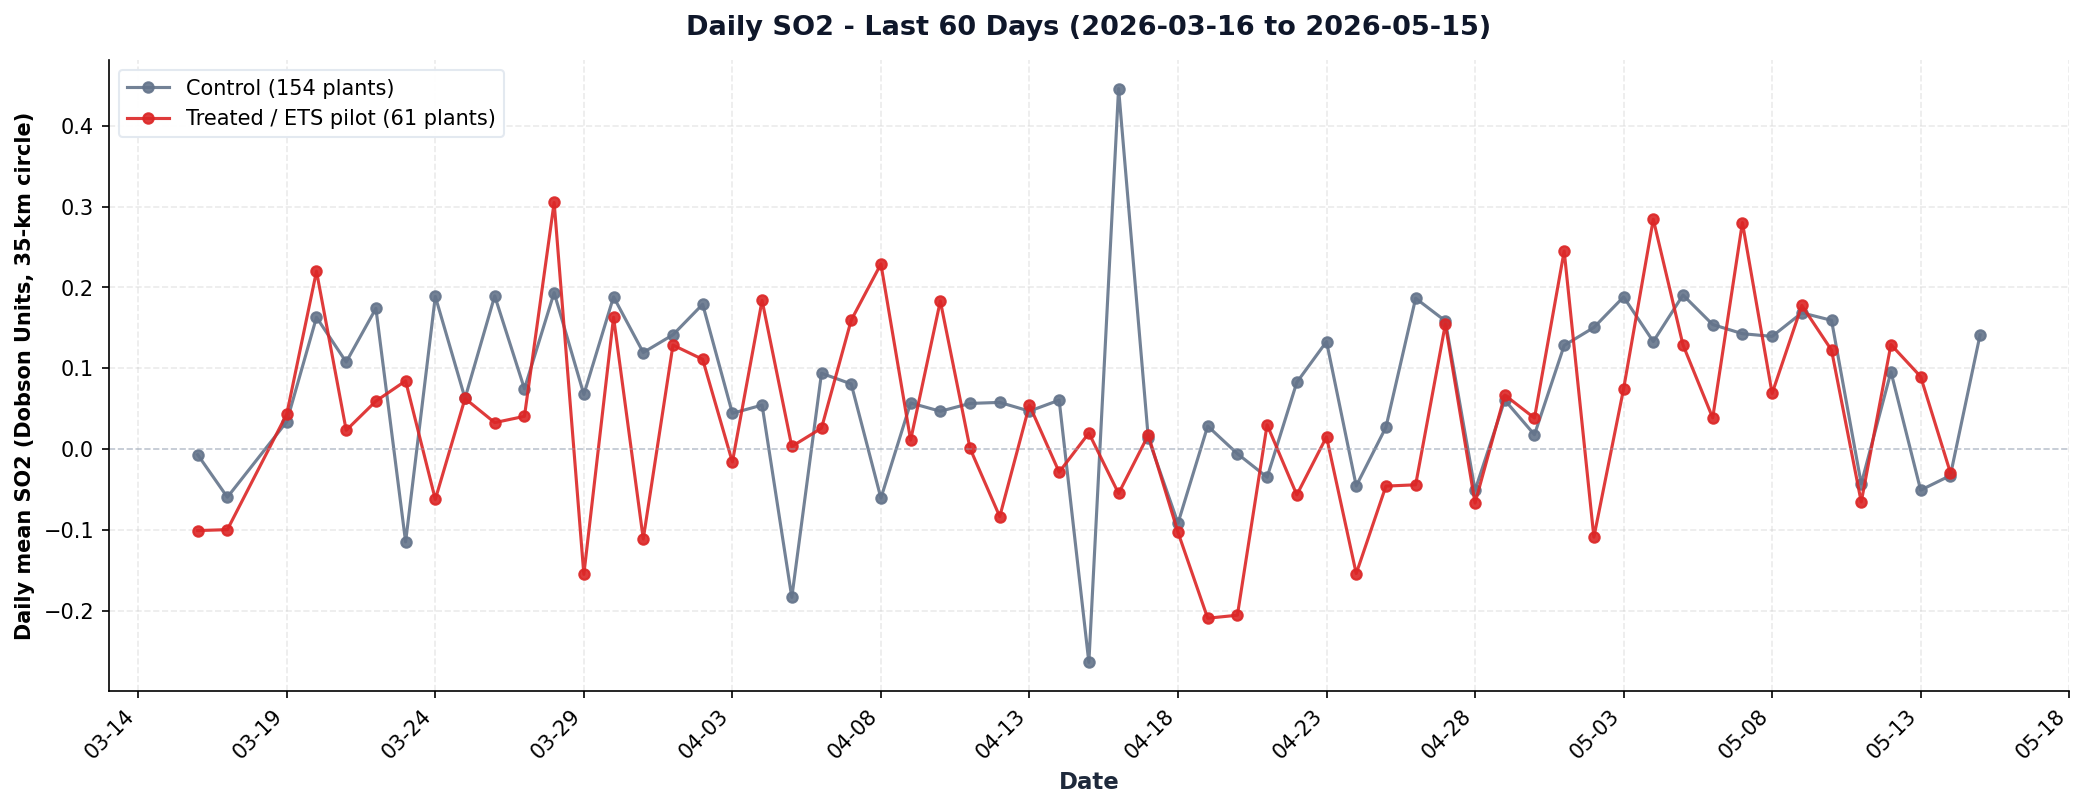
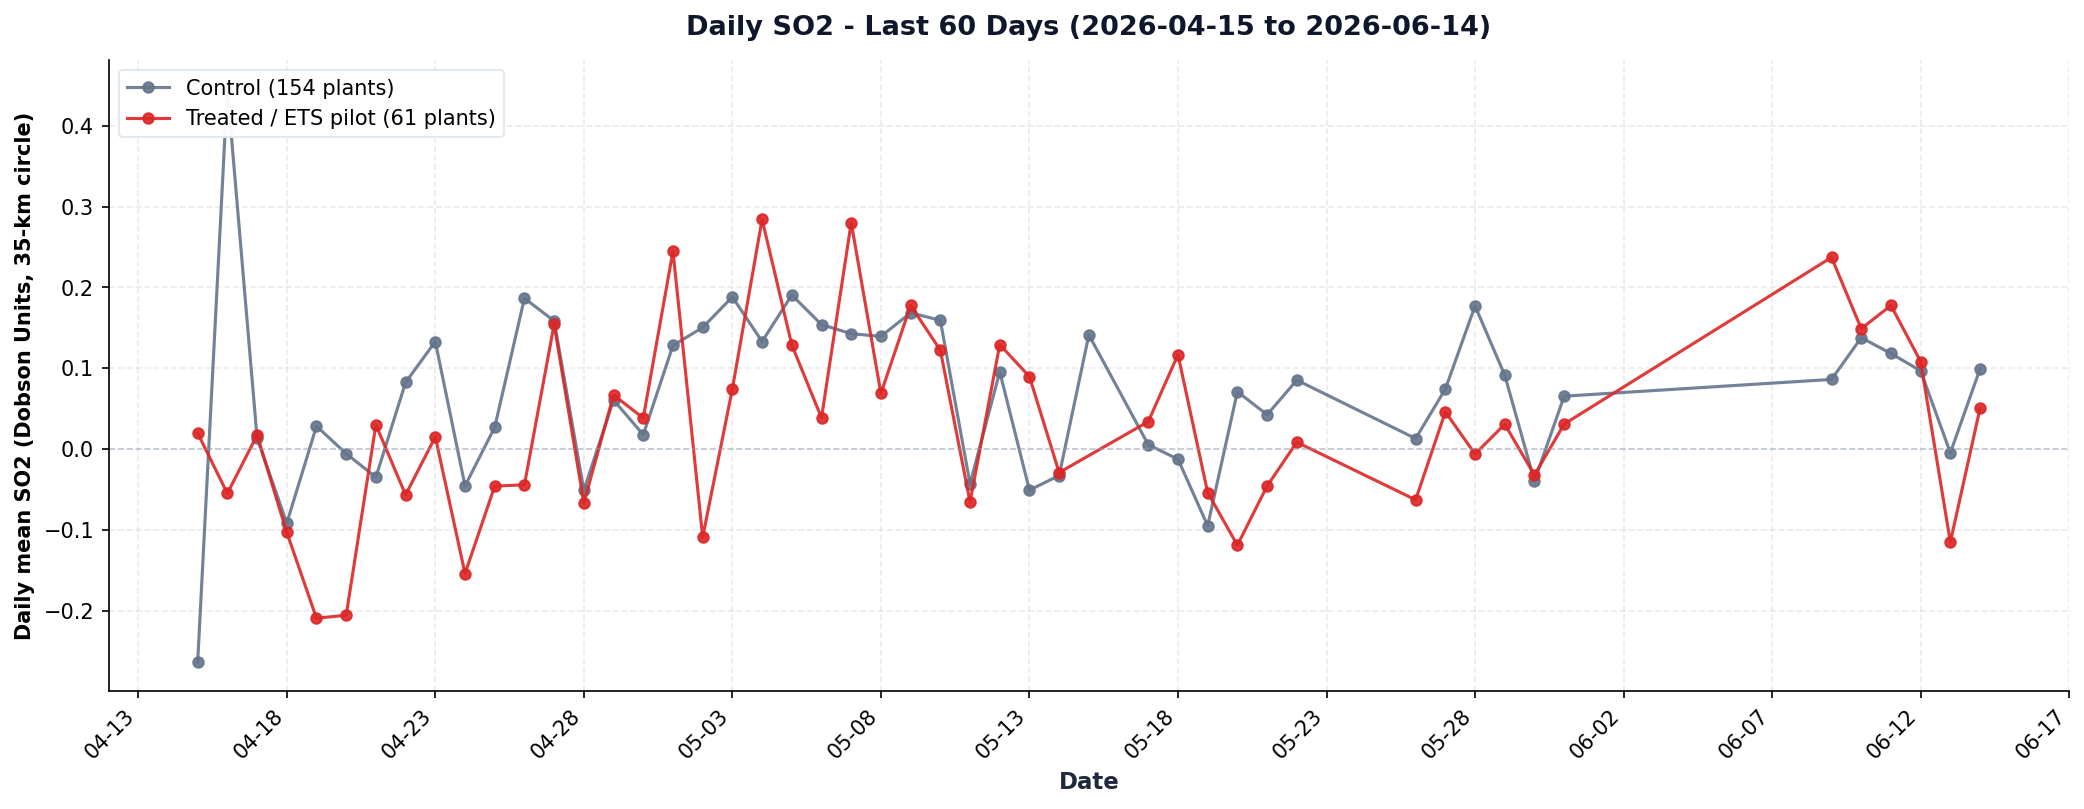
Add files via upload

diff --git a/index.html b/index.html
@@ -151,8 +151,8 @@
       "Evaluating Power Sector Emissions under China's Regional Carbon ETS Pilots: A View from Space".
     </div>
     <div class="meta">
-      <span><span class="dot"></span>Page rendered: 2026-05-17 12:31 UTC</span>
-      <span>📡 Latest data: <strong>2026-05-15</strong></span>
+      <span><span class="dot"></span>Page rendered: 2026-06-16 19:50 UTC</span>
+      <span>📡 Latest data: <strong>2026-06-14</strong></span>
       <span>🔄 Auto-refresh every 5 min</span>
       <span>🤖 Pipeline updates daily at 02:30 (Windows Task Scheduler)</span>
     </div>
@@ -162,17 +162,17 @@
 <div class="kpi-grid">
   <div class="kpi">
     <div class="label">Latest data date</div>
-    <div class="value">2026-05-15</div>
+    <div class="value">2026-06-14</div>
     <div class="sub">NASA usually has 1-3 day publishing delay</div>
   </div>
   <div class="kpi">
     <div class="label">Total observed days</div>
-    <div class="value">2,690</div>
+    <div class="value">2,708</div>
     <div class="sub">Continuous since 2019-01-01</div>
   </div>
   <div class="kpi">
     <div class="label">Valid observations</div>
-    <div class="value">154,705</div>
+    <div class="value">155,697</div>
     <div class="sub">~27% satellite coverage (clouds filtered)</div>
   </div>
   <div class="kpi">
@@ -282,7 +282,7 @@
       <thead>
         <tr><th>Date</th><th>Valid plants</th><th>Mean SO<sub>2</sub> (DU)</th><th>Top plant of day</th><th>Top SO<sub>2</sub></th></tr>
       </thead>
-      <tbody><tr><td><strong>2026-05-15</strong></td><td>6</td><td>+0.141</td><td>Guixi power station <small style="color:#94a3b8;">(Jiangxi)</small> <span class="badge badge-ctrl">Ctrl</span></td><td><strong>0.750</strong></td></tr><tr><td><strong>2026-05-14</strong></td><td>41</td><td>-0.032</td><td>Tongliao power station <small style="color:#94a3b8;">(Inner Mongolia)</small> <span class="badge badge-ets">ETS</span></td><td><strong>0.395</strong></td></tr><tr><td><strong>2026-05-13</strong></td><td>19</td><td>+0.031</td><td>Weihai power station <small style="color:#94a3b8;">(Shandong)</small> <span class="badge badge-ctrl">Ctrl</span></td><td><strong>0.654</strong></td></tr><tr><td><strong>2026-05-12</strong></td><td>70</td><td>+0.106</td><td>Leizhou power station <small style="color:#94a3b8;">(Guangdong)</small> <span class="badge badge-ets">ETS</span></td><td><strong>0.685</strong></td></tr><tr><td><strong>2026-05-11</strong></td><td>71</td><td>-0.048</td><td>Rizhao power station <small style="color:#94a3b8;">(Shandong)</small> <span class="badge badge-ctrl">Ctrl</span></td><td><strong>1.180</strong></td></tr><tr><td><strong>2026-05-10</strong></td><td>46</td><td>+0.149</td><td>Changzhi power station <small style="color:#94a3b8;">(Shanxi)</small> <span class="badge badge-ctrl">Ctrl</span></td><td><strong>0.810</strong></td></tr><tr><td><strong>2026-05-09</strong></td><td>121</td><td>+0.170</td><td>Huadian Xiangyang power station <small style="color:#94a3b8;">(Hubei)</small> <span class="badge badge-ets">ETS</span></td><td><strong>1.370</strong></td></tr><tr><td><strong>2026-05-08</strong></td><td>33</td><td>+0.109</td><td>Lusigang power station <small style="color:#94a3b8;">(Jiangsu)</small> <span class="badge badge-ctrl">Ctrl</span></td><td><strong>0.860</strong></td></tr><tr><td><strong>2026-05-07</strong></td><td>21</td><td>+0.175</td><td>Tianchi Changji cogen power station <small style="color:#94a3b8;">(Xinjiang)</small> <span class="badge badge-ctrl">Ctrl</span></td><td><strong>1.040</strong></td></tr><tr><td><strong>2026-05-06</strong></td><td>70</td><td>+0.131</td><td>Shiliquan power station <small style="color:#94a3b8;">(Shandong)</small> <span class="badge badge-ctrl">Ctrl</span></td><td><strong>1.480</strong></td></tr><tr><td><strong>2026-05-05</strong></td><td>69</td><td>+0.176</td><td>Qitaihe power station <small style="color:#94a3b8;">(Heilongjiang)</small> <span class="badge badge-ctrl">Ctrl</span></td><td><strong>0.642</strong></td></tr><tr><td><strong>2026-05-04</strong></td><td>123</td><td>+0.160</td><td>Hubei Ezhou power station <small style="color:#94a3b8;">(Hubei)</small> <span class="badge badge-ets">ETS</span></td><td><strong>0.985</strong></td></tr><tr><td><strong>2026-05-03</strong></td><td>23</td><td>+0.149</td><td>Yingkou power station <small style="color:#94a3b8;">(Liaoning)</small> <span class="badge badge-ctrl">Ctrl</span></td><td><strong>1.210</strong></td></tr><tr><td><strong>2026-05-02</strong></td><td>23</td><td>+0.026</td><td>Gansu Zhengning power station <small style="color:#94a3b8;">(Gansu)</small> <span class="badge badge-ctrl">Ctrl</span></td><td><strong>0.740</strong></td></tr><tr><td><strong>2026-05-01</strong></td><td>78</td><td>+0.160</td><td>Huaneng Fuzhou power station <small style="color:#94a3b8;">(Fujian)</small> <span class="badge badge-ets">ETS</span></td><td><strong>2.560</strong></td></tr><tr><td><strong>2026-04-30</strong></td><td>84</td><td>+0.025</td><td>Pucheng power station <small style="color:#94a3b8;">(Shaanxi)</small> <span class="badge badge-ctrl">Ctrl</span></td><td><strong>0.677</strong></td></tr><tr><td><strong>2026-04-29</strong></td><td>72</td><td>+0.062</td><td>Hubei Yicheng power station <small style="color:#94a3b8;">(Hubei)</small> <span class="badge badge-ets">ETS</span></td><td><strong>0.750</strong></td></tr><tr><td><strong>2026-04-28</strong></td><td>29</td><td>-0.057</td><td>Jiangsu Energy Group Wulagai power sta <small style="color:#94a3b8;">(Inner Mongolia)</small> <span class="badge badge-ets">ETS</span></td><td><strong>0.640</strong></td></tr><tr><td><strong>2026-04-27</strong></td><td>68</td><td>+0.157</td><td>Fugu Miaogoumen power station <small style="color:#94a3b8;">(Shaanxi)</small> <span class="badge badge-ctrl">Ctrl</span></td><td><strong>0.638</strong></td></tr><tr><td><strong>2026-04-26</strong></td><td>76</td><td>+0.138</td><td>Ma'anshan power station <small style="color:#94a3b8;">(Anhui)</small> <span class="badge badge-ctrl">Ctrl</span></td><td><strong>1.320</strong></td></tr><tr><td><strong>2026-04-25</strong></td><td>54</td><td>+0.007</td><td>Huaneng Yueyang power station <small style="color:#94a3b8;">(Hunan)</small> <span class="badge badge-ctrl">Ctrl</span></td><td><strong>0.643</strong></td></tr><tr><td><strong>2026-04-24</strong></td><td>99</td><td>-0.063</td><td>Hebi power station <small style="color:#94a3b8;">(Henan)</small> <span class="badge badge-ctrl">Ctrl</span></td><td><strong>0.610</strong></td></tr><tr><td><strong>2026-04-23</strong></td><td>40</td><td>+0.095</td><td>Datang Dongying power station <small style="color:#94a3b8;">(Shandong)</small> <span class="badge badge-ctrl">Ctrl</span></td><td><strong>1.910</strong></td></tr><tr><td><strong>2026-04-22</strong></td><td>42</td><td>+0.030</td><td>Beihai power station <small style="color:#94a3b8;">(Guangxi)</small> <span class="badge badge-ctrl">Ctrl</span></td><td><strong>0.670</strong></td></tr><tr><td><strong>2026-04-21</strong></td><td>27</td><td>-0.008</td><td>Diandong power station <small style="color:#94a3b8;">(Yunnan)</small> <span class="badge badge-ctrl">Ctrl</span></td><td><strong>0.470</strong></td></tr><tr><td><strong>2026-04-20</strong></td><td>31</td><td>-0.083</td><td>Datang Sanmenxia power station <small style="color:#94a3b8;">(Henan)</small> <span class="badge badge-ctrl">Ctrl</span></td><td><strong>0.360</strong></td></tr><tr><td><strong>2026-04-19</strong></td><td>117</td><td>-0.032</td><td>Hezhou power station <small style="color:#94a3b8;">(Guangxi)</small> <span class="badge badge-ctrl">Ctrl</span></td><td><strong>1.130</strong></td></tr><tr><td><strong>2026-04-18</strong></td><td>55</td><td>-0.094</td><td>Huadian Laizhou power station <small style="color:#94a3b8;">(Shandong)</small> <span class="badge badge-ctrl">Ctrl</span></td><td><strong>0.658</strong></td></tr><tr><td><strong>2026-04-17</strong></td><td>74</td><td>+0.014</td><td>Shizuishan power station <small style="color:#94a3b8;">(Ningxia)</small> <span class="badge badge-ctrl">Ctrl</span></td><td><strong>0.557</strong></td></tr><tr><td><strong>2026-04-16</strong></td><td>17</td><td>+0.240</td><td>Tianchi Changji cogen power station <small style="color:#94a3b8;">(Xinjiang)</small> <span class="badge badge-ctrl">Ctrl</span></td><td><strong>1.160</strong></td></tr></tbody>
+      <tbody><tr><td><strong>2026-06-14</strong></td><td>70</td><td>+0.091</td><td>Yangcheng power station <small style="color:#94a3b8;">(Shanxi)</small> <span class="badge badge-ctrl">Ctrl</span></td><td><strong>0.635</strong></td></tr><tr><td><strong>2026-06-13</strong></td><td>12</td><td>-0.014</td><td>Shiliquan power station <small style="color:#94a3b8;">(Shandong)</small> <span class="badge badge-ctrl">Ctrl</span></td><td><strong>0.360</strong></td></tr><tr><td><strong>2026-06-12</strong></td><td>43</td><td>+0.100</td><td>Hancheng power station <small style="color:#94a3b8;">(Shaanxi)</small> <span class="badge badge-ctrl">Ctrl</span></td><td><strong>0.647</strong></td></tr><tr><td><strong>2026-06-11</strong></td><td>93</td><td>+0.125</td><td>XPCC Shihezi Cogen power station <small style="color:#94a3b8;">(Xinjiang)</small> <span class="badge badge-ctrl">Ctrl</span></td><td><strong>0.823</strong></td></tr><tr><td><strong>2026-06-10</strong></td><td>42</td><td>+0.140</td><td>Ningxia Lingwu power station <small style="color:#94a3b8;">(Ningxia)</small> <span class="badge badge-ctrl">Ctrl</span></td><td><strong>0.583</strong></td></tr><tr><td><strong>2026-06-09</strong></td><td>94</td><td>+0.107</td><td>Hebei Cangdong power station <small style="color:#94a3b8;">(Hebei)</small> <span class="badge badge-ctrl">Ctrl</span></td><td><strong>0.660</strong></td></tr><tr><td><strong>2026-05-31</strong></td><td>61</td><td>+0.058</td><td>Guoxin Yangzhou power station <small style="color:#94a3b8;">(Jiangsu)</small> <span class="badge badge-ctrl">Ctrl</span></td><td><strong>0.980</strong></td></tr><tr><td><strong>2026-05-30</strong></td><td>113</td><td>-0.037</td><td>Togtoh power station <small style="color:#94a3b8;">(Inner Mongolia)</small> <span class="badge badge-ets">ETS</span></td><td><strong>0.747</strong></td></tr><tr><td><strong>2026-05-29</strong></td><td>75</td><td>+0.079</td><td>Shiheng-2 power station <small style="color:#94a3b8;">(Shandong)</small> <span class="badge badge-ctrl">Ctrl</span></td><td><strong>0.850</strong></td></tr><tr><td><strong>2026-05-28</strong></td><td>37</td><td>+0.083</td><td>Beihai power station <small style="color:#94a3b8;">(Guangxi)</small> <span class="badge badge-ctrl">Ctrl</span></td><td><strong>0.750</strong></td></tr><tr><td><strong>2026-05-27</strong></td><td>73</td><td>+0.063</td><td>Suizhong power station <small style="color:#94a3b8;">(Liaoning)</small> <span class="badge badge-ctrl">Ctrl</span></td><td><strong>0.866</strong></td></tr><tr><td><strong>2026-05-26</strong></td><td>24</td><td>+0.000</td><td>Shenhua Guoneng Hami power station <small style="color:#94a3b8;">(Xinjiang)</small> <span class="badge badge-ctrl">Ctrl</span></td><td><strong>0.325</strong></td></tr><tr><td><strong>2026-05-22</strong></td><td>51</td><td>+0.069</td><td>Daihai power station <small style="color:#94a3b8;">(Inner Mongolia)</small> <span class="badge badge-ets">ETS</span></td><td><strong>0.672</strong></td></tr><tr><td><strong>2026-05-21</strong></td><td>35</td><td>+0.020</td><td>Yancheng Binhai power station <small style="color:#94a3b8;">(Jiangsu)</small> <span class="badge badge-ctrl">Ctrl</span></td><td><strong>0.666</strong></td></tr><tr><td><strong>2026-05-20</strong></td><td>51</td><td>+0.004</td><td>Wujiaqu power station <small style="color:#94a3b8;">(Xinjiang)</small> <span class="badge badge-ctrl">Ctrl</span></td><td><strong>0.670</strong></td></tr><tr><td><strong>2026-05-19</strong></td><td>35</td><td>-0.080</td><td>Wujiaqu power station <small style="color:#94a3b8;">(Xinjiang)</small> <span class="badge badge-ctrl">Ctrl</span></td><td><strong>0.443</strong></td></tr><tr><td><strong>2026-05-18</strong></td><td>16</td><td>+0.028</td><td>Inner Mongolia Shenglu power station <small style="color:#94a3b8;">(Inner Mongolia)</small> <span class="badge badge-ets">ETS</span></td><td><strong>0.283</strong></td></tr><tr><td><strong>2026-05-17</strong></td><td>67</td><td>+0.011</td><td>Wujiaqu power station <small style="color:#94a3b8;">(Xinjiang)</small> <span class="badge badge-ctrl">Ctrl</span></td><td><strong>0.467</strong></td></tr><tr><td><strong>2026-05-15</strong></td><td>6</td><td>+0.141</td><td>Guixi power station <small style="color:#94a3b8;">(Jiangxi)</small> <span class="badge badge-ctrl">Ctrl</span></td><td><strong>0.750</strong></td></tr><tr><td><strong>2026-05-14</strong></td><td>41</td><td>-0.032</td><td>Tongliao power station <small style="color:#94a3b8;">(Inner Mongolia)</small> <span class="badge badge-ets">ETS</span></td><td><strong>0.395</strong></td></tr><tr><td><strong>2026-05-13</strong></td><td>19</td><td>+0.031</td><td>Weihai power station <small style="color:#94a3b8;">(Shandong)</small> <span class="badge badge-ctrl">Ctrl</span></td><td><strong>0.654</strong></td></tr><tr><td><strong>2026-05-12</strong></td><td>70</td><td>+0.106</td><td>Leizhou power station <small style="color:#94a3b8;">(Guangdong)</small> <span class="badge badge-ets">ETS</span></td><td><strong>0.685</strong></td></tr><tr><td><strong>2026-05-11</strong></td><td>71</td><td>-0.048</td><td>Rizhao power station <small style="color:#94a3b8;">(Shandong)</small> <span class="badge badge-ctrl">Ctrl</span></td><td><strong>1.180</strong></td></tr><tr><td><strong>2026-05-10</strong></td><td>46</td><td>+0.149</td><td>Changzhi power station <small style="color:#94a3b8;">(Shanxi)</small> <span class="badge badge-ctrl">Ctrl</span></td><td><strong>0.810</strong></td></tr><tr><td><strong>2026-05-09</strong></td><td>121</td><td>+0.170</td><td>Huadian Xiangyang power station <small style="color:#94a3b8;">(Hubei)</small> <span class="badge badge-ets">ETS</span></td><td><strong>1.370</strong></td></tr><tr><td><strong>2026-05-08</strong></td><td>33</td><td>+0.109</td><td>Lusigang power station <small style="color:#94a3b8;">(Jiangsu)</small> <span class="badge badge-ctrl">Ctrl</span></td><td><strong>0.860</strong></td></tr><tr><td><strong>2026-05-07</strong></td><td>21</td><td>+0.175</td><td>Tianchi Changji cogen power station <small style="color:#94a3b8;">(Xinjiang)</small> <span class="badge badge-ctrl">Ctrl</span></td><td><strong>1.040</strong></td></tr><tr><td><strong>2026-05-06</strong></td><td>70</td><td>+0.131</td><td>Shiliquan power station <small style="color:#94a3b8;">(Shandong)</small> <span class="badge badge-ctrl">Ctrl</span></td><td><strong>1.480</strong></td></tr><tr><td><strong>2026-05-05</strong></td><td>69</td><td>+0.176</td><td>Qitaihe power station <small style="color:#94a3b8;">(Heilongjiang)</small> <span class="badge badge-ctrl">Ctrl</span></td><td><strong>0.642</strong></td></tr><tr><td><strong>2026-05-04</strong></td><td>123</td><td>+0.160</td><td>Hubei Ezhou power station <small style="color:#94a3b8;">(Hubei)</small> <span class="badge badge-ets">ETS</span></td><td><strong>0.985</strong></td></tr></tbody>
     </table>
   </div>
 
@@ -300,7 +300,7 @@
       <p class="desc">Provinces sorted by average SO<sub>2</sub> over the last 30 days.</p>
       <table>
         <thead><tr><th>Province</th><th>Plants</th><th>Obs.</th><th>Mean SO<sub>2</sub></th></tr></thead>
-        <tbody><tr><td><strong>Guizhou</strong> </td><td>2</td><td>3</td><td>+0.231</td></tr><tr><td><strong>Heilongjiang</strong> </td><td>1</td><td>4</td><td>+0.199</td></tr><tr><td><strong>Hebei</strong> </td><td>6</td><td>52</td><td>+0.143</td></tr><tr><td><strong>Shaanxi</strong> </td><td>9</td><td>80</td><td>+0.140</td></tr><tr><td><strong>Tianjin</strong> <span class="badge badge-ets">ETS</span></td><td>2</td><td>16</td><td>+0.138</td></tr><tr><td><strong>Sichuan</strong> </td><td>2</td><td>10</td><td>+0.122</td></tr><tr><td><strong>Shanxi</strong> </td><td>10</td><td>91</td><td>+0.121</td></tr><tr><td><strong>Hubei</strong> <span class="badge badge-ets">ETS</span></td><td>8</td><td>48</td><td>+0.112</td></tr><tr><td><strong>Xinjiang</strong> </td><td>10</td><td>117</td><td>+0.109</td></tr><tr><td><strong>Yunnan</strong> </td><td>1</td><td>2</td><td>+0.105</td></tr><tr><td><strong>Hunan</strong> </td><td>8</td><td>43</td><td>+0.087</td></tr><tr><td><strong>Shandong</strong> </td><td>16</td><td>148</td><td>+0.082</td></tr><tr><td><strong>Guangxi</strong> </td><td>5</td><td>28</td><td>+0.079</td></tr><tr><td><strong>Shanghai</strong> <span class="badge badge-ets">ETS</span></td><td>3</td><td>21</td><td>+0.078</td></tr><tr><td><strong>Henan</strong> </td><td>13</td><td>117</td><td>+0.075</td></tr></tbody>
+        <tbody><tr><td><strong>Hunan</strong> </td><td>8</td><td>22</td><td>+0.194</td></tr><tr><td><strong>Hubei</strong> <span class="badge badge-ets">ETS</span></td><td>8</td><td>40</td><td>+0.167</td></tr><tr><td><strong>Heilongjiang</strong> </td><td>1</td><td>6</td><td>+0.145</td></tr><tr><td><strong>Jilin</strong> </td><td>1</td><td>8</td><td>+0.128</td></tr><tr><td><strong>Guangxi</strong> </td><td>5</td><td>22</td><td>+0.127</td></tr><tr><td><strong>Jiangsu</strong> </td><td>20</td><td>171</td><td>+0.115</td></tr><tr><td><strong>Shandong</strong> </td><td>16</td><td>166</td><td>+0.115</td></tr><tr><td><strong>Shaanxi</strong> </td><td>9</td><td>91</td><td>+0.111</td></tr><tr><td><strong>Ningxia</strong> </td><td>6</td><td>67</td><td>+0.111</td></tr><tr><td><strong>Henan</strong> </td><td>13</td><td>117</td><td>+0.108</td></tr><tr><td><strong>Jiangxi</strong> </td><td>7</td><td>15</td><td>+0.108</td></tr><tr><td><strong>Tianjin</strong> <span class="badge badge-ets">ETS</span></td><td>2</td><td>17</td><td>+0.107</td></tr><tr><td><strong>Inner Mongolia</strong> <span class="badge badge-ets">ETS</span></td><td>20</td><td>195</td><td>+0.092</td></tr><tr><td><strong>Shanghai</strong> <span class="badge badge-ets">ETS</span></td><td>3</td><td>24</td><td>+0.088</td></tr><tr><td><strong>Hebei</strong> </td><td>6</td><td>64</td><td>+0.082</td></tr></tbody>
       </table>
     </div>
 
@@ -309,7 +309,7 @@
       <p class="desc">One row per year. T = treated (61 plants), C = control (154 plants). Diff column = treated minus control.</p>
       <table>
         <thead><tr><th>Year</th><th>T obs.</th><th>T mean</th><th>C obs.</th><th>C mean</th><th>Diff (T-C)</th></tr></thead>
-        <tbody><tr><td><strong>2019</strong></td><td>6,059</td><td>+0.0386</td><td>13,999</td><td>+0.0681</td><td class="text-gray"><strong>-0.0295</strong></td></tr><tr><td><strong>2020</strong></td><td>6,176</td><td>+0.0384</td><td>13,997</td><td>+0.0670</td><td class="text-gray"><strong>-0.0286</strong></td></tr><tr><td><strong>2021</strong></td><td>6,603</td><td>+0.0421</td><td>14,931</td><td>+0.0695</td><td class="text-gray"><strong>-0.0275</strong></td></tr><tr><td><strong>2022</strong></td><td>6,432</td><td>+0.0485</td><td>15,308</td><td>+0.0667</td><td class="text-gray"><strong>-0.0182</strong></td></tr><tr><td><strong>2023</strong></td><td>6,279</td><td>+0.0483</td><td>15,648</td><td>+0.0555</td><td class="text-gray"><strong>-0.0072</strong></td></tr><tr><td><strong>2024</strong></td><td>5,677</td><td>+0.0461</td><td>14,494</td><td>+0.0591</td><td class="text-gray"><strong>-0.0130</strong></td></tr><tr><td><strong>2025</strong></td><td>6,254</td><td>+0.0719</td><td>15,079</td><td>+0.0573</td><td class="text-red"><strong>+0.0145</strong></td></tr><tr><td><strong>2026</strong></td><td>2,367</td><td>+0.0473</td><td>5,402</td><td>+0.0525</td><td class="text-gray"><strong>-0.0052</strong></td></tr></tbody>
+        <tbody><tr><td><strong>2019</strong></td><td>6,059</td><td>+0.0386</td><td>13,999</td><td>+0.0681</td><td class="text-gray"><strong>-0.0295</strong></td></tr><tr><td><strong>2020</strong></td><td>6,176</td><td>+0.0384</td><td>13,997</td><td>+0.0670</td><td class="text-gray"><strong>-0.0286</strong></td></tr><tr><td><strong>2021</strong></td><td>6,603</td><td>+0.0421</td><td>14,931</td><td>+0.0695</td><td class="text-gray"><strong>-0.0275</strong></td></tr><tr><td><strong>2022</strong></td><td>6,432</td><td>+0.0485</td><td>15,308</td><td>+0.0667</td><td class="text-gray"><strong>-0.0182</strong></td></tr><tr><td><strong>2023</strong></td><td>6,279</td><td>+0.0483</td><td>15,648</td><td>+0.0555</td><td class="text-gray"><strong>-0.0072</strong></td></tr><tr><td><strong>2024</strong></td><td>5,677</td><td>+0.0461</td><td>14,494</td><td>+0.0591</td><td class="text-gray"><strong>-0.0130</strong></td></tr><tr><td><strong>2025</strong></td><td>6,254</td><td>+0.0719</td><td>15,079</td><td>+0.0573</td><td class="text-red"><strong>+0.0145</strong></td></tr><tr><td><strong>2026</strong></td><td>2,611</td><td>+0.0454</td><td>6,150</td><td>+0.0538</td><td class="text-gray"><strong>-0.0084</strong></td></tr></tbody>
       </table>
       <div style="margin-top:14px; padding:12px 16px; background:#fff7ed; border-left:4px solid #f97316; border-radius:6px; font-size:13px; color:#7c2d12; line-height:1.6;">
         <strong>⚠ 2025 数据警告:</strong> 2025 年 treated 均值受少数 plant-quarter 异常值影响——重庆地区的 Luohuang (2025Q4 mean ≈ +6.4 DU, n=8 有效天)和 Wanzhou (2025Q4 ≈ +1.9 DU, n=11)两家电厂把 treated 全年均值拉高了约一倍。median 比 mean 更稳健。论文级估计应该 winsorize 在 99 分位,或要求 n_valid_days &ge; 10。
